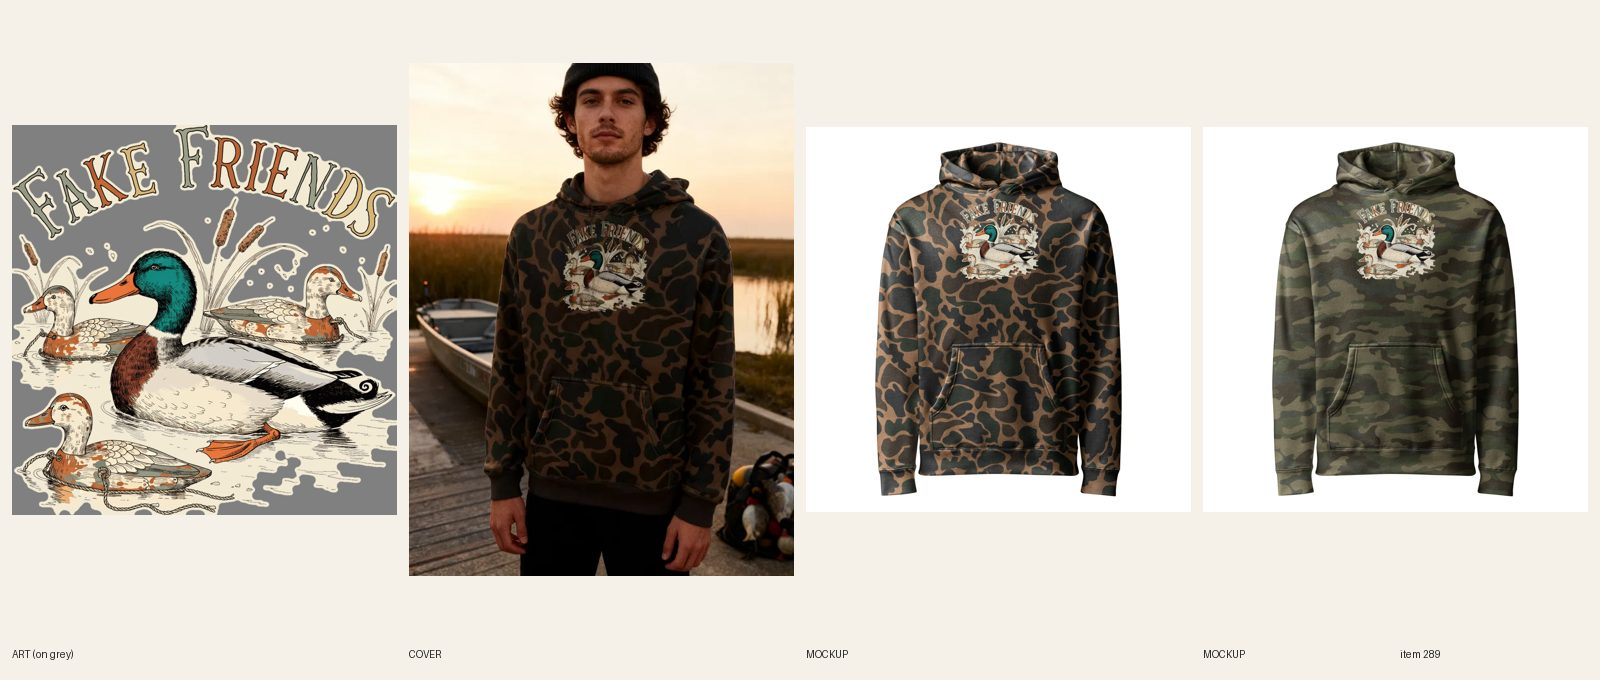
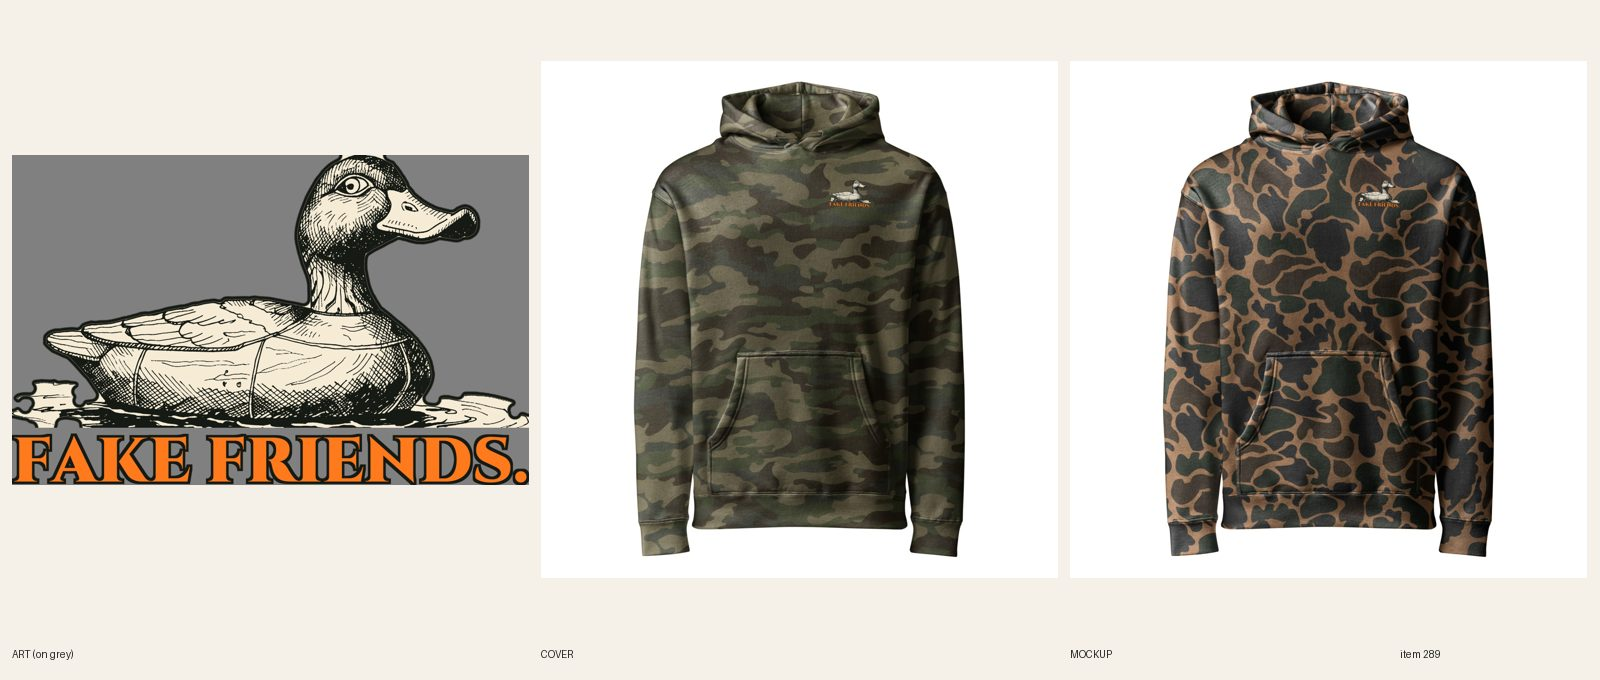
[B] review 289 camo redo 4 (decoy engraving B3 print, flats kept); run end, release lock
Claude-Session: https://claude.ai/code/session_01VkHZHfssi4ghnv3GAtxKs6

diff --git a/src/data/covers.ts b/src/data/covers.ts
@@ -309,7 +309,6 @@ export const covers: Record<string, { src: string; alt: string }> = {
   'womens-embroidered-purrsonal-space-cat-hoodie': { src: '/covers/womens-embroidered-purrsonal-space-cat-hoodie.webp', alt: 'Woman in her mid 20s with a short black bob in a Sand Purrsonal Space embroidered cat hoodie in a reading nook by a rainy window with a cat on the cushion beside her' },
   'mens-gym-sore-since-1987-oversized-hoodie': { src: '/covers/mens-gym-sore-since-1987-oversized-hoodie.webp', alt: 'Man in his mid 20s with a shaved head in a Navy Sore Since 1987 oversized gym hoodie in a busy weight room with a dumbbell rack behind him' },
   'mens-hunting-sit-wait-snack-camo-hoodie': { src: '/covers/mens-hunting-sit-wait-snack-camo-hoodie.webp', alt: 'Man in his mid 40s with a salt-and-pepper beard and a ball cap pushed back in a Forest Camo Sit Wait Snack hoodie on a deer camp cabin porch at dawn with a frosty field behind him' },
-  'mens-hunting-fake-friends-duck-camo-hoodie': { src: '/covers/mens-hunting-fake-friends-duck-camo-hoodie.webp', alt: 'Man in his late 20s with dark curly hair under a beanie in a Duck Camo Fake Friends hoodie at a marsh boat launch at sunrise with a johnboat and a bag of decoys beside him' },
   'mens-hunting-long-beard-short-temper-camo-hoodie': { src: '/covers/mens-hunting-long-beard-short-temper-camo-hoodie.webp', alt: 'Man in his early 50s with a bald head and full grey beard in a Forest Camo Long Beard Short Temper turkey hoodie on a hardwood ridge in early morning light' },
   'mens-hunting-im-not-yelling-im-bugling-camo-hoodie': { src: '/covers/mens-hunting-im-not-yelling-im-bugling-camo-hoodie.webp', alt: 'Man in his late 30s with a long black ponytail in a Forest Camo I\'m Not Yelling I\'m Bugling elk hoodie in a high mountain meadow at golden hour with aspens behind him' },
   'mens-hunting-fluent-in-honk-camo-hoodie': { src: '/covers/mens-hunting-fluent-in-honk-camo-hoodie.webp', alt: 'Man in his early 40s with short gray hair in a Duck Camo Fluent in Honk goose hoodie standing in a flooded cornfield at first light with Canada geese behind him' },

diff --git a/docs/intake-log.md b/docs/intake-log.md
@@ -1,4 +1,5 @@
-RUNNING lane B since 2026-10-24 13:34 UTC
+2026-10-24 13:48 UTC — [B] Builder run end: 2 items, camo redo #3 #292 (A+ goose icon, lifestyle photos) and #4 #289 (B3 decoy engraving, photos garbled so flats kept; both ACTIVE, director to confirm). fal ~$0.34. Lock released.
+2026-10-24 13:48 UTC — [B] REVIEW #289 Men's Hunting – Fake Friends Duck Camo Hoodie (camo-redo 4 of 27, S2 on B3, FW625 TOP300 LEFT1475, 14/14 on 1093665816, line 100%, art 83% of height, Cinzel; no AI photo, flats kept). fal ~$0.22.
 2026-10-24 13:43 UTC — [B] REVIEW #292 Men's Hunting – Fluent in Honk Camo Hoodie (camo-redo 3 of 27, S8 on A+, FW1500 TOP400, 14/14 on 1093660903, headline 100%, icon 78%, Bowlby). fal ~$0.16.
 2026-10-23 23:47 UTC — [H] Helper run: Telegram inbox had 2 messages from Sam (neither pause, resume nor TikTok): one reply 'Got it, passing it to the director (next run about 00:47 UTC)' (one reply for both), both logged to docs/inbox.md, updates consumed. Shopify: 0 orders since 2026-10-22 23:47 UTC, so no Printful hold check. Audit 720 live products: 7 ERRORs (the same visual cover errors already noted at 14:49, left for the director), 148 warnings left alone; no scripted fixes; committed docs/cohesion-audit.md and .json (npm ci first). Price errors: none. Category check: 0 products without a Shopify category (no mutation). Site freshness: #906, #935, #936, #926 product pages and homepage all 200. Stuck work: no BUILDING items; lane E lock from 2026-10-21 14:48 UTC still stale (alerted 14:49, not re-sent); lane C lock from 2026-10-21 08:27 UTC is also stale (last lane C commit 16:56 that day): Telegram alert sent, lock not touched. Daily summary not due (sent at the 14:49 run). Lock released.
 2026-10-23 23:21 UTC — [D] Director run: inbox nothing new (14:49 audit note is the same 7 cover errors already handed to the builder; still waiting on Sam for the #457/#458 Hanukkah line). Reviewed 2 camo redo sheets + 2 articles. #830 Camera Shy camo redo LIVE (in place, already ACTIVE, not a new product): Sam's 18:40 notes met, 10 in wide on Printful's preview, lifestyle text right; empty meta written; audit --handle PASS. #303 Camp Security REDO for photos only: print approved, both lifestyle photos garble ON BREAK. (R6.8); flats moved to images 1-2, cover moved to retired-covers until new photos pass. Article #994 gifts-for-fishermen (9,900 / KD 30) approved and live (fixed /fishing-hoodies/ 404 to /hoodies/fishing-hoodies/); #993 best-funny-fishing-shirts PARKED (duplicate of #994, unmeasured, overlaps Reel Talk's primary). No new LIVE products: Oct 23 Chicago cap (6) was reached at 15:05. No new briefs: 56 READY, over the 6-12 target. No Telegram (not a digest run; nothing needs Sam). Lock released.

diff --git a/docs/pipeline/289-camo-hoodie-fake-friends-duck.md b/docs/pipeline/289-camo-hoodie-fake-friends-duck.md
@@ -1,4 +1,4 @@
-status: REDO
+status: REVIEW
 lane: B
 type: new
 id: 289
@@ -26,3 +26,4 @@ handle: mens-hunting-fake-friends-duck-camo-hoodie
 - 2026-10-17 01:15 UTC director: LIVE. Reviewed docs/review/289.jpg + Shopify copy; set ACTIVE, published to Online Store, Headless and Google & YouTube; cohesion-audit --handle PASS.
 - 2026-10-22 22:00 UTC Claude (Sam): REDO, camo redo #4 of 27, style S2. New art in its own style, no box, no condensed sans, placement per docs/backlog/camo-redo.md (never TOP 0). Redo in place.
 - 2026-10-22 22:40 UTC Claude (Sam): placement A/B test, this item is B3 (left chest at the seam, tag placement-b).
+- 2026-10-24 13:58 UTC [B]: camo-redo #4 (S2 field guide, placement B3, tag placement-b), in place on product 15362670199088. New art: 1 Recraft call (vintage engraving of one wooden duck decoy, smug painted eye), silhouette filled cream with the engraving's own ink lines on top and a dark keyline, no box; ripples/reflection cropped off. Line: FAKE FRIENDS. (2 words) in Cinzel Black blaze orange with dark keyline (last 5 lane B faces: Bowlby, Fraunces, Playfair, Bevan, Alfa Slab; Cinzel not among them). Print 3300 x 2109, FW 625 TOP 300 LEFT 1475 (wearer's left chest at the seam); decoy 1743 of 2109 px = 83% of print height; line 3301 of 3300 = 100% of width, cap height ~330 px at 3300 = ~63 px at FW 625 (>= 53). R7.7: Duck + Forest Camo 14/14 on file 1093665816, back logo 1080398177. Front mockups replaced in place, old back kept. Title unchanged; copy, SEO (meta trimmed), FAQ (4 x 40-60 words) rewritten to the one-line chest; tag placement-b added. Lifestyle: 3 seedream calls (registry 1148, $0.18): try 1 big center print on a non-camo short-sleeve, tries 2 and 3 camo and size right but the caption garbled (FAKE FFAEWUR) at 200%; per camo-redo rule 4 kept the clean Printful flat shots, old collar-high cover removed (covers.ts) and handle added to retired-covers.json; director may try a closer photo. Audit PASS (warn: no lifestyle cover). Sheet docs/review/289.jpg. Product is ACTIVE: director to confirm.

diff --git a/docs/model-registry.md b/docs/model-registry.md
@@ -940,3 +940,4 @@ Rows 11–43 were re-pointed on 2026-10-08 when the briefs were rewritten from d
 | 1145 | Brazilian woman, early 30s, curly dark hair tied back, medium build | CLAIMED 2026-10-21 — #987 hoodie cover (brief) |
 | 1146 | Lumbee man, mid 30s, short dark hair, trimmed beard, broad build | USED 2026-10-23 — #830 camo redo cover + second photo |
 | 1147 | Hispanic man, early 40s, short salt-and-pepper hair, clean-shaven, stocky build | USED 2026-10-24 — #292 camo redo cover + second photo |
+| 1148 | Black man, early 30s, short fade, light beard, athletic build | UNUSED 2026-10-24 — #289 photos garbled the caption, flats kept
